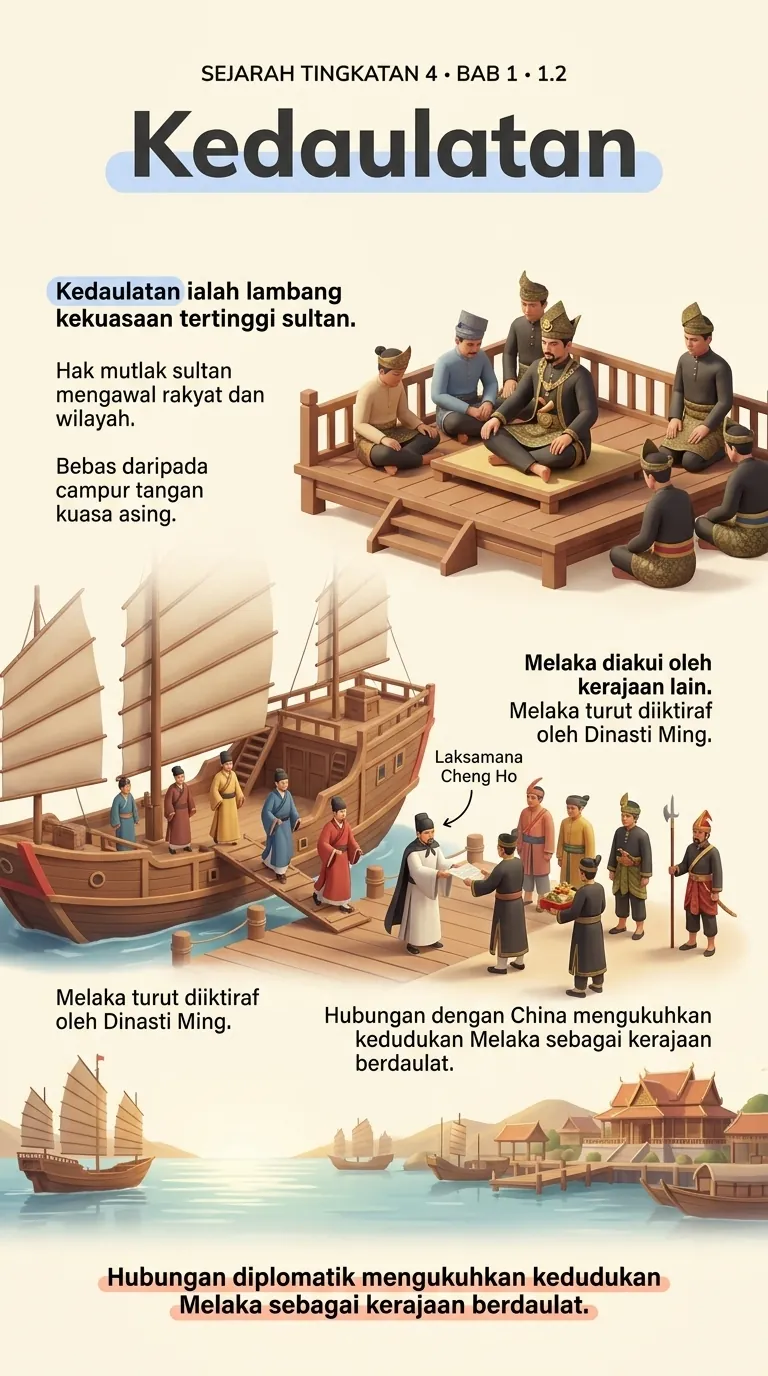
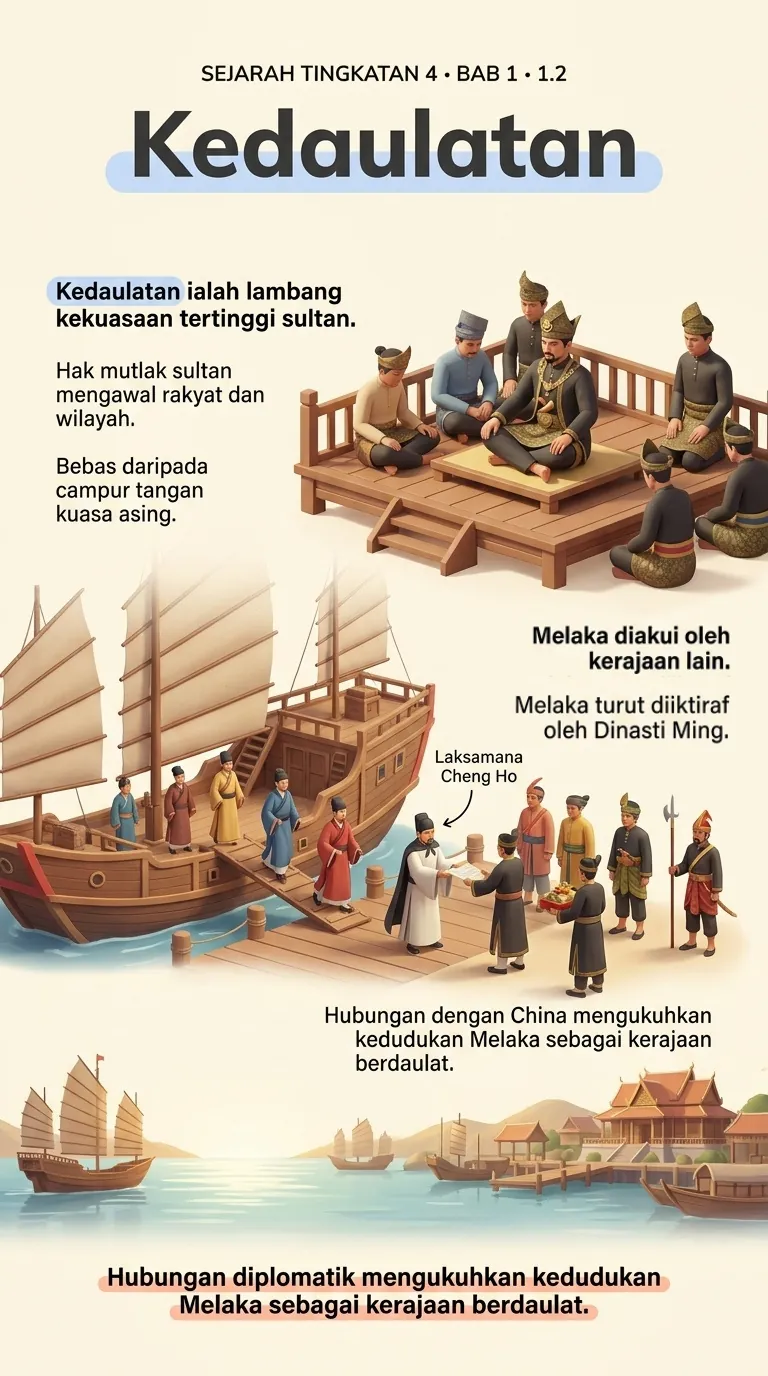
Kemas kini imej Kedaulatan (bab-1-2) drpd pengguna (#676)
* Kemas kini galeri infografik: buang kaunter/butang tutup, header kurang gelap, halang pull-to-refresh

- Buang paparan "N / 10" & butang X — gaya cerita IG/status WhatsApp
  sebenar tiada elemen ni, cuma dash progress bar di atas
- Kurangkan kegelapan scrim header (0.92→0.55 puncak) — teks tajuk
  sebelum ni kurang nampak/tak kemas pd sesetengah imej sumber;
  legibiliti kini bergantung lebih pd text-shadow drpd blok gelap
  pepejal
- Tambah #zym-infographic-overlay.is-open ke overlaysOpen() dlm
  setupZymPullToRefresh() — pull-to-refresh custom sebelum ni tak
  kenal overlay galeri terbuka (beza drpd search/mindmap/sparkle-panel
  yg dah disenaraikan), jadi tarik-turun dlm galeri cetus reload
  penuh & bawa pengguna keluar balik ke laman nota

* Asingkan cache imej infografik (MEDIA_CACHE) drpd cache app-shell — elak muat turun berulang tiap deploy

Isu skala ditemui semasa bincang peluasan galeri infografik ke lebih
banyak subtopik/bab: activate() sw.js padam SEMUA cache lama tiap kali
CACHE naik versi (berlaku setiap PR ubah CSS/JS, kerap dlm projek ni).
Imej infografik (~2MB/subtopik) sebelum ni turut tercache di bawah
CACHE biasa via peraturan generik "Same-origin GET: cache-first",
bermakna pelajar yg dah buka galeri terpaksa muat turun semula tiap
kali app-shell dikemas kini — defeat tujuan cache offline utk media
"berat, opt-in" ni.

Fix: laluan /assets/infographics/ kini dilayan cabang fetch berasingan,
[…]

Changed region(s): [[0.6562, 0.4375, 0.9688, 0.5625], [0.0625, 0.7188, 0.3438, 0.75]]

diff --git a/assets/js/main.js b/assets/js/main.js
@@ -2445,7 +2445,10 @@ var HZ_INFOGRAPHIC_PAGES = {
   // ada versi gaya lama. Rujuk CLAUDE.md §"Infografik Galeri".
   'bab-1-2': {
     title: '1.2 Ciri-ciri Negara Bangsa Kesultanan Melayu Melaka',
-    imgVersion: 1,
+    // v2 (2026-08-13): 05-kedaulatan.webp diganti dgn versi baharu drpd
+    // pengguna — naikkan imgVersion WAJIB bila kandungan fail sedia ada
+    // bertukar (rujuk CLAUDE.md §"Infografik Galeri").
+    imgVersion: 2,
     slides: [
       { file: '01-pengenalan.webp', alt: 'Muka hadapan: Ciri-ciri Negara Bangsa Kesultanan Melayu Melaka. Kesultanan Melayu Melaka mempunyai sistem pemerintahan yang tersusun dan lengkap. Enam ciri utama membuktikan pembentukan negara bangsa yang kukuh sebelum kedatangan Barat' },
       { file: '02-enam-ciri-utama.webp', alt: 'Enam Ciri Utama Negara Bangsa: Kerajaan, Rakyat, Kedaulatan, Wilayah Pengaruh, Undang-undang, Lambang Kebesaran — keenam-enam ciri ini membentuk negara bangsa yang kukuh di Kesultanan Melayu Melaka' },
